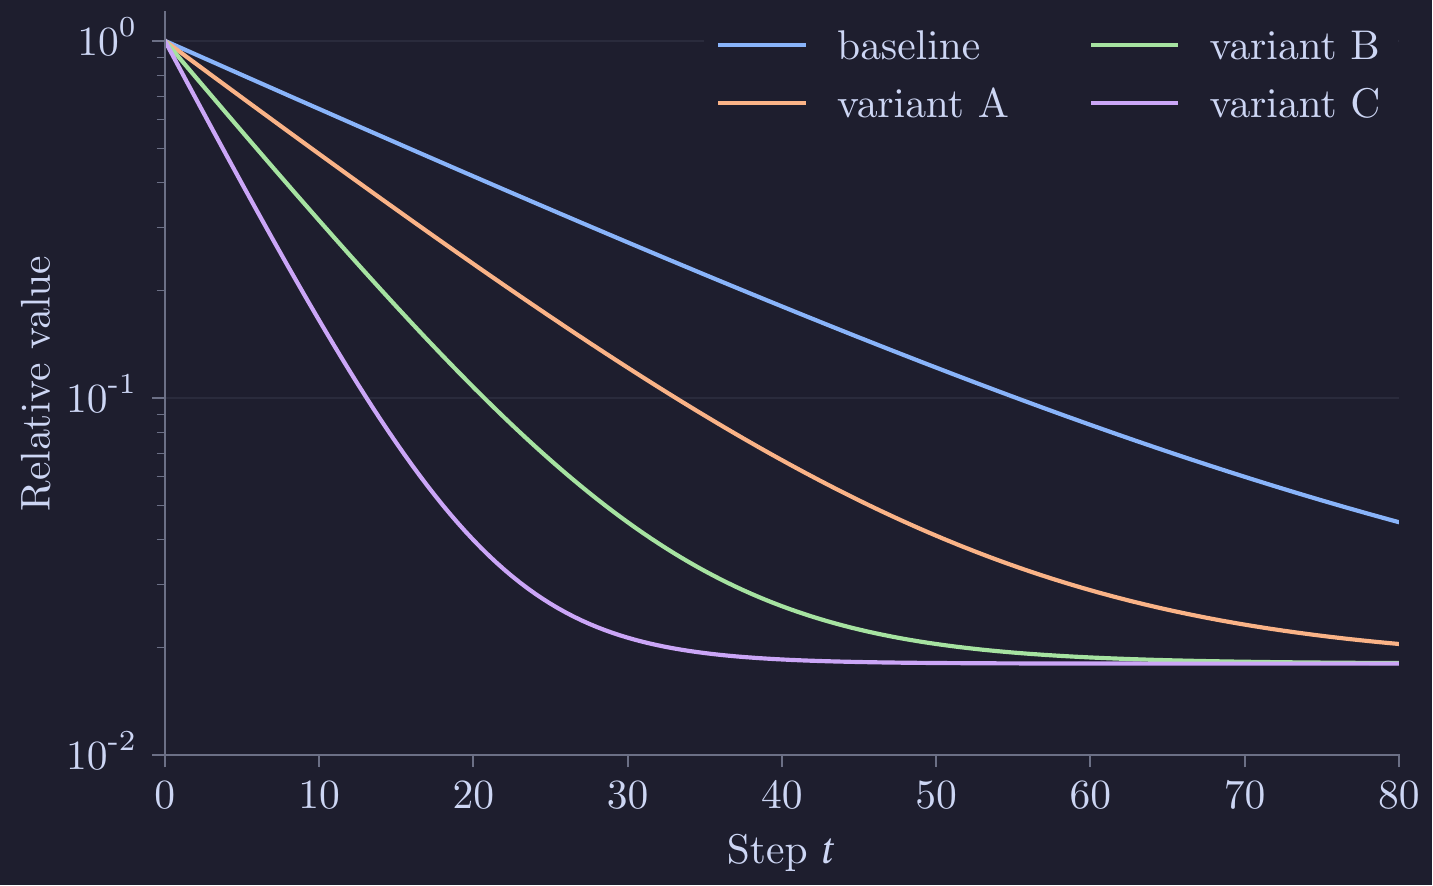
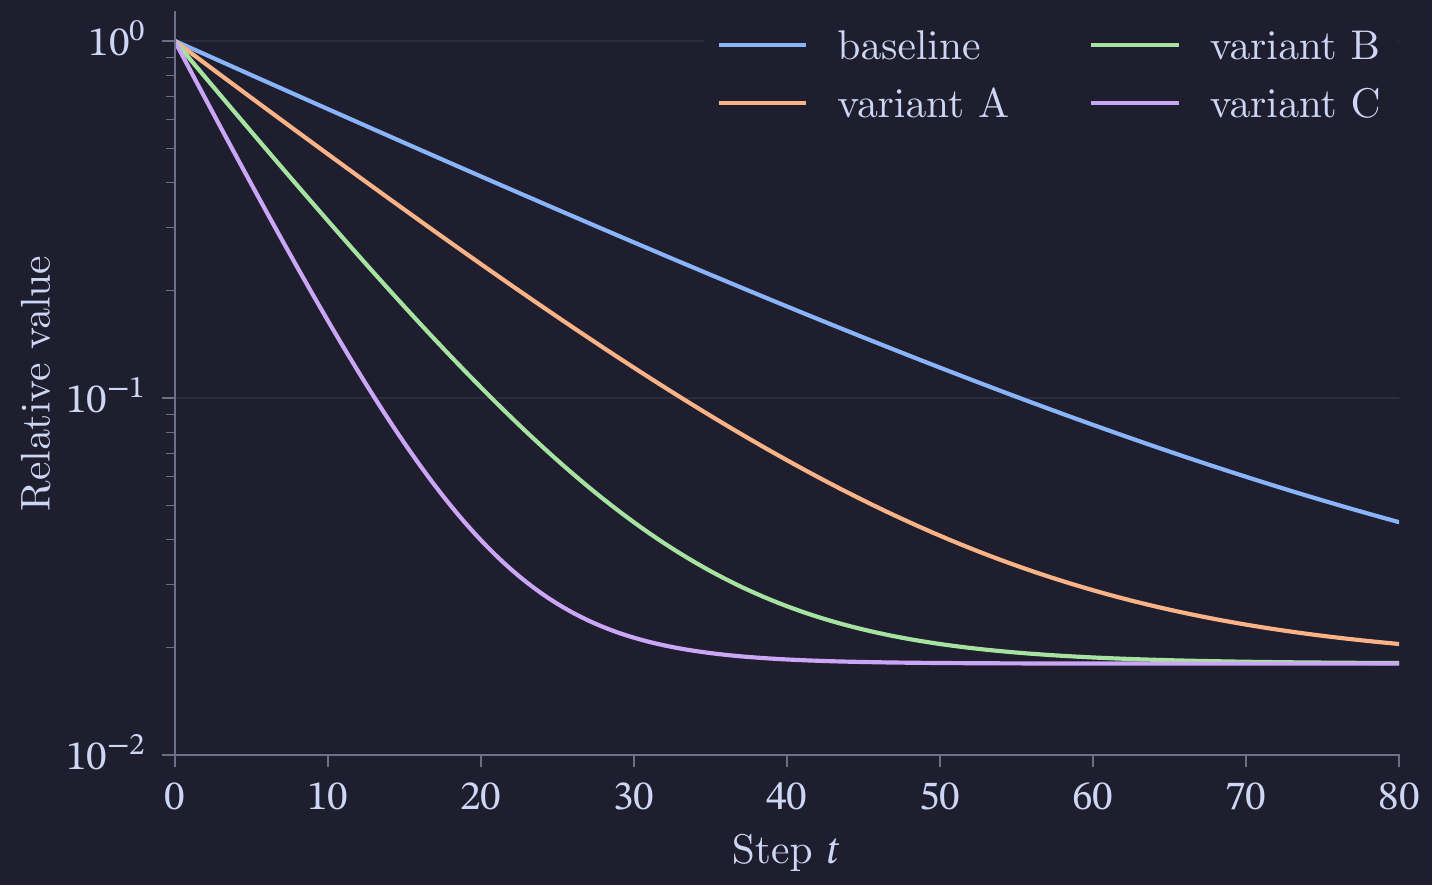
Set tick numbers in math mode

diff --git a/tests/test_pictures.py b/tests/test_pictures.py
@@ -17,7 +17,7 @@ from documents import (
     register_plots,
     size_of,
 )
-from pdfminer.layout import LTPage
+from pdfminer.layout import LTChar, LTPage
 
 from figmint import Document
 
@@ -31,6 +31,9 @@ BOX_TOLERANCE = 0.01
 SIZE_TOLERANCE = 0.05
 # A caret where a superscript belongs, as a character or as an accent.
 CARETS = {"^", "\N{MODIFIER LETTER CIRCUMFLEX ACCENT}"}
+MINUS_SIGNS = {"-", "\N{MINUS SIGN}"}
+# A digit that follows a minus sign starts within this many big points of it.
+GLYPH_GAP = 2.0
 
 
 def draw(name: str, engine: str, directory: Path) -> tuple[Document, Path]:
@@ -60,6 +63,26 @@ def fonts(page: LTPage, word: str) -> set[str]:
     return {font_of(char) for char in caption_chars(page, word)}
 
 
+def digit_fonts(glyphs: list[LTChar]) -> set[str]:
+    return {font_of(char) for char in glyphs if char.get_text().isdigit()}
+
+
+def minus_fonts(glyphs: list[LTChar]) -> set[str]:
+    return {font_of(char) for char in glyphs if char.get_text() in MINUS_SIGNS}
+
+
+def math_digit_fonts(caption: list[LTChar]) -> set[str]:
+    """Return the fonts of the caption's digits that follow a minus sign: its $-1$."""
+    minuses = [char for char in caption if char.get_text() in MINUS_SIGNS]
+
+    return {
+        font_of(char)
+        for char in caption
+        if char.get_text().isdigit()
+        and any(0.0 <= char.x0 - minus.x1 <= GLYPH_GAP for minus in minuses)
+    }
+
+
 def assert_sizes_in(found: set[float], allowed: set[float]) -> None:
     for size in found:
         assert any(abs(size - other) <= SIZE_TOLERANCE for other in allowed), (
@@ -84,6 +107,9 @@ def test_figures_have_the_fonts_and_the_size_of_their_captions(
         caption_fonts, caption_sizes = fonts(page, "Caption"), sizes(page, "Caption")
         assert caption_fonts
         assert caption_sizes
+        caption = caption_chars(page, "Caption")
+        assert math_digit_fonts(caption)
+        assert minus_fonts(caption)
 
         for figure in included:
             matching = {
@@ -103,6 +129,21 @@ def test_figures_have_the_fonts_and_the_size_of_their_captions(
             assert {font_of(char) for char in glyphs} <= caption_fonts
             found = {round(size_of(char), 2) for char in glyphs}
             assert_sizes_in(found, caption_sizes)
+            # Tick numbers are formulas: their digits and minus signs come from
+            # the math font, like the caption's $-1$, never from the text font.
+            assert digit_fonts(glyphs)
+            assert digit_fonts(glyphs) <= math_digit_fonts(caption), (
+                digit_fonts(glyphs),
+                math_digit_fonts(caption),
+            )
+            assert minus_fonts(glyphs) <= minus_fonts(caption), (
+                minus_fonts(glyphs),
+                minus_fonts(caption),
+            )
+
+            if matching == {"sublog"}:
+                # Minor ticks are labeled, as matplotlib's 2 x 10^0.
+                assert "\N{MULTIPLICATION SIGN}" in {char.get_text() for char in glyphs}
 
             if matching == {"log"}:
                 # The exponents of the tick labels are digits at script size.

diff --git a/src/figmint/_document.py b/src/figmint/_document.py
@@ -372,35 +372,21 @@ class Document:
 
 
 def _figmint_lines(line: Line) -> list[str]:
-    r"""Return the lines figmint adds after the document's.
+    """Return the lines figmint adds after the document's.
 
-    The first lines put the digits of tick labels that matplotlib sets in math
-    mode, those of a log axis, into the text font: ``\mathdefault{10^{2}}``
-    becomes ``\text{10}^{\text{2}}``, and the minus sign of an exponent stays
-    in the math font through the ``\ensuremath{-}`` the pgf backend writes.
-    The backend makes ``^`` active inside its text, so the macros are defined
-    with that character active. A math alphabet would do the same but needs a
-    math family, of which stix2 leaves none under pdfLaTeX. The last line pins
-    the script sizes: matplotlib's own preamble loads scrextend with the size
-    as ``9.000000pt``, after which LuaLaTeX with unicode-math sets the scripts
-    of a 9pt figure at 6.3pt and 4.5pt.
+    The first pins the script sizes: matplotlib's own preamble loads scrextend
+    with the size as ``9.000000pt``, after which LuaLaTeX with unicode-math
+    sets the scripts of a 9pt figure at 6.3pt and 4.5pt. The second removes
+    the page number: matplotlib typesets the figure as a page of an article,
+    whose number would stand below the figure's box, clipped but in the file.
+    Tick labels are formulas, as matplotlib writes them, and need nothing else.
     """
     return [
-        r"\usepackage{amstext}",
-        r"\makeatletter",
-        r"\begingroup\catcode`\^=\active",
-        r"\gdef\figmint@power#1^#2\figmint@stop{\text{#1}^{\text{#2}}}",
-        (
-            r"\gdef\figmint@mathdefault#1{\in@{^}{#1}"
-            r"\ifin@\figmint@power#1\figmint@stop\else\text{#1}\fi}"
-        ),
-        r"\endgroup",
-        r"\renewcommand{\mathdefault}[1]{\figmint@mathdefault{#1}}",
-        r"\makeatother",
         (
             rf"\DeclareMathSizes{{{line.size:f}}}{{{line.size:g}}}"
             rf"{{{line.script}}}{{{line.scriptscript}}}"
         ),
+        r"\pagestyle{empty}",
     ]
 
 

diff --git a/src/figmint/_ticks.py b/src/figmint/_ticks.py
@@ -1,4 +1,4 @@
-"""Tick numbers by the look: no trailing zeros, and a real minus sign."""
+"""Tick numbers by the look: in math mode, with no trailing zeros."""
 
 import numpy as np
 from matplotlib.figure import Figure
@@ -10,11 +10,7 @@ DECIMALS = 10
 
 
 def format_number(value: float) -> str:
-    r"""Return a number with no trailing zeros and U+2212 as its minus sign.
-
-    The digits and the decimal point are plain text, so a document sets them in
-    its text font; the pgf backend sets U+2212 as ``\ensuremath{-}``, in the
-    math font.
+    """Return a number with no trailing zeros and U+2212 as its minus sign.
 
     Returns:
         The number as text.
@@ -29,17 +25,23 @@ def format_number(value: float) -> str:
 
 
 class NumberFormatter(Formatter):
-    """Formats ticks through ``format_number``."""
+    r"""Formats ticks through ``format_number``, in math mode.
+
+    A label is ``$\mathdefault{...}$``, as matplotlib's own formatters write
+    it. A document typesets it as a formula, so the digits and the minus sign
+    come from its math font, as pgfplots and siunitx set numbers. matplotlib's
+    own renderer sets ``\mathdefault`` in the label's font.
+    """
 
     def __call__(self, x: float, pos: int | None = None) -> str:  # noqa: ARG002
-        return format_number(x)
+        return rf"$\mathdefault{{{format_number(x)}}}$"
 
 
 def format_ticks(figure: Figure) -> None:
-    r"""Give every linear axis with matplotlib's formatter the formatter of the look.
+    """Give every linear axis with matplotlib's formatter the formatter of the look.
 
-    A log axis keeps matplotlib's formatter, whose exponents the document sets
-    through ``\mathdefault``, and an axis with a formatter of its own keeps it.
+    A log axis keeps matplotlib's formatter, which writes its labels in math
+    mode already, and an axis with a formatter of its own keeps it.
     """
     for axes in figure.axes:
         for axis in (axes.xaxis, axes.yaxis):

diff --git a/tests/documents.py b/tests/documents.py
@@ -217,13 +217,22 @@ def _log(_: Figure, axes: Axes) -> None:
     legend(axes, loc="best")
 
 
+def _sublog(_: Figure, axes: Axes) -> None:
+    # Less than a decade, so matplotlib labels the minor ticks as well.
+    axes.plot(STEPS, 2.0 + 6.0 * np.exp(-0.05 * STEPS), label="baseline")
+    axes.set_yscale("log")
+    axes.set_ylim(2.0, 8.0)
+    axes.set_xlabel(r"Step $t$")
+    legend(axes, loc="best")
+
+
 def _bars(_: Figure, axes: Axes) -> None:
     for index in range(3):
         bar(
             axes,
             [1, 2, 3],
             [0.5 + 0.1 * index, 0.7, 0.4],
-            label=f"series {index}",
+            label=f"series {('one', 'two', 'three')[index]}",
             group=(index, 3),
         )
 
@@ -281,9 +290,12 @@ def _grid(_: Figure, axes: np.ndarray) -> None:
         panel.set_xlabel(r"Step $t$")
 
 
+# No text label of these figures holds a digit, so every digit of a figure is a
+# tick number or part of a formula, which the picture test relies on.
 PLOTS = {
     "lines": _lines,
     "log": _log,
+    "sublog": _sublog,
     "bars": _bars,
     "hbars": _hbars,
     "scatter": _scatter,

diff --git a/tests/test_ticks.py b/tests/test_ticks.py
@@ -47,7 +47,7 @@ def test_format_ticks_touches_only_linear_axes_with_the_default_formatter() -> N
     assert custom.xaxis.get_major_formatter() is own
 
 
-def test_formatted_ticks_have_no_trailing_zeros() -> None:
+def test_formatted_ticks_are_formulas_without_trailing_zeros() -> None:
     figure = Figure()
     canvas = FigureCanvasAgg(figure)
     axes = figure.subplots()
@@ -56,8 +56,8 @@ def test_formatted_ticks_have_no_trailing_zeros() -> None:
     canvas.draw()
 
     assert [label.get_text() for label in axes.get_xticklabels()] == [
-        MINUS + "1",
-        "0",
-        "0.5",
-        "1",
+        r"$\mathdefault{" + MINUS + "1}$",
+        r"$\mathdefault{0}$",
+        r"$\mathdefault{0.5}$",
+        r"$\mathdefault{1}$",
     ]

diff --git a/tests/documents/icml.tex b/tests/documents/icml.tex
@@ -81,4 +81,11 @@ Body text with math $f(x) = x_{i}^{2}$ and $-1$.
 \end{figure*}
 \clearpage
 
+\begin{figure}[htbp]
+  \centering
+  \figmintgraphic{sublog}
+  \caption{Caption $x_{i}^{\text{a}}$ and $-1$.}
+\end{figure}
+\clearpage
+
 \end{document}

diff --git a/tests/documents/iclr.tex b/tests/documents/iclr.tex
@@ -83,4 +83,11 @@ Body text with math $f(x) = x_{i}^{2}$ and $-1$.
 \end{figure}
 \clearpage
 
+\begin{figure}[htbp]
+  \centering
+  \figmintgraphic{sublog}
+  \caption{Caption $x_{i}^{\text{a}}$ and $-1$.}
+\end{figure}
+\clearpage
+
 \end{document}

diff --git a/tests/documents/neurips.tex b/tests/documents/neurips.tex
@@ -83,4 +83,11 @@ Body text with math $f(x) = x_{i}^{2}$ and $-1$.
 \end{figure}
 \clearpage
 
+\begin{figure}[htbp]
+  \centering
+  \figmintgraphic{sublog}
+  \caption{Caption $x_{i}^{\text{a}}$ and $-1$.}
+\end{figure}
+\clearpage
+
 \end{document}

diff --git a/tests/documents/xelatex.tex b/tests/documents/xelatex.tex
@@ -77,4 +77,11 @@ Body text with math $f(x) = x_{i}^{2}$ and $-1$.
 \end{figure}
 \clearpage
 
+\begin{figure}[htbp]
+  \centering
+  \figmintgraphic{sublog}
+  \caption{Caption $x_{i}^{\text{a}}$ and $-1$.}
+\end{figure}
+\clearpage
+
 \end{document}

diff --git a/docs/legend.md b/docs/legend.md
@@ -1,12 +1,12 @@
 # Legend placement
 
-Both backends place a legend by the same rule: the legend sits flush at one of nine anchors of the axes, with the column count that covers the least plotted ink. `figmint.sty` applies the rule at `\end{axis}`, and `legend(axis, ...)` applies it in matplotlib. The two implementations run the same fixtures in `tests/fixtures/legend`.
+`legend(axes, ...)` places a legend by one rule: the legend sits flush at one of nine anchors of the axes, with the column count that covers the least plotted ink. The fixtures in `tests/fixtures/legend` pin the rule.
 
 ## Candidates
 
-The anchors are the four corners of the axes, the middles of its four edges, and its center. A legend at an anchor sits flush with the axes frame: at a corner it touches both edges, and at the middle of an edge it touches that edge and is centered along it. In matplotlib, a legend with a visible frame stays inside by half its frame line width.
+The anchors are the four corners of the axes, the middles of its four edges, and its center. A legend at an anchor sits flush with the axes frame: at a corner it touches both edges, and at the middle of an edge it touches that edge and is centered along it. A legend with a visible frame stays inside by half its frame line width.
 
-With $n$ legend entries, a candidate is an anchor and a column count $C \in \{1, \ldots, n\}$. Under `loc="best"` and `figmint legend best`, every anchor is a candidate; under a fixed location, only that anchor is. The size of each candidate is the size of the real legend at $C$ columns, typeset or rendered by the backend. A candidate whose legend is wider or taller than the axes is dropped, and when no candidate remains, placement fails with an error.
+With $n$ legend entries, a candidate is an anchor and a column count $C \in \{1, \ldots, n\}$. Under `loc="best"`, every anchor is a candidate; under a fixed location, only that anchor is. The size of each candidate is the size of the real legend at $C$ columns, as matplotlib renders it. A candidate whose legend is wider or taller than the axes is dropped, and when no candidate remains, placement fails with an error.
 
 ## Ink
 
@@ -16,7 +16,7 @@ The axes are divided into square cells of side $c = 2\,\mathrm{pt}$, indexed by 
 - A filled path occupies its boundary, as above, and every cell whose center lies inside the path under the even-odd rule.
 - A text annotation, an image, and a shaded surface occupy every cell that their bounding box overlaps.
 
-Ink is what the plots and the annotations inside the axes draw. In PGFPlots, that is everything drawn after the axis background, grid, and the axis lines below the plots, including the markers that PGFPlots draws after the axis. In matplotlib, it is every child of the axes except the background, spines, axes, titles, and the legend.
+Ink is what the plots and the annotations inside the axes draw: every child of the axes except the background, the spines, the axis objects, the titles, and the legend.
 
 ## Score
 
@@ -34,4 +34,4 @@ Let a candidate legend of width $w$ and height $h$ overlap columns $i_0, \ldots,
 
 ## Cost
 
-In PGFPlots, ink is collected only for an axis whose legend figmint places, while PGFPlots draws it, at a cost linear in what is drawn. Other axes are not touched, so they keep the Lua backend of PGFPlots. Each candidate then costs a constant number of lookups in a summed-area table of the grid and one pass over its rows for the clearance. In matplotlib, `legend` draws the figure once, whatever the number of legend entries.
+`legend` draws the figure once, whatever the number of legend entries, to collect the ink. Each candidate then costs a constant number of lookups in a summed-area table of the grid and one pass over its rows for the clearance.

diff --git a/docs/style.md b/docs/style.md
@@ -7,7 +7,7 @@ figmint draws every figure by these rules, through the settings of `style` and `
 - Boxes 0.55 of the spacing wide with caps 0.44 wide, filled with 12% of their color over the background and outlined in it, the median as wide as a plot line, the whiskers as an axis line, and no fliers.
 - A colorbar 4 bp wide, 4 bp from the axes and as tall, with no frame.
 - Bands with opacity 0.18 and no edge.
-- Numbers with the digits and the decimal point in the text font, the minus sign from the math font, and no trailing zeros.
+- Numbers in math mode, as pgfplots and siunitx set numbers: the digits, the decimal point, and the minus sign come from the document's math font. No trailing zeros.
 - Automatic limits as the range of the data enlarged by 5% on each side.
 - The canvas exactly the requested size, with the content 3 bp inside it.
 - Axis lines 0.5 bp wide, plot lines 1 bp, markers 3 bp, major ticks 3 bp long and outside the axes, only the left and bottom spines, and a legend without a frame line.

diff --git a/README.md b/README.md
@@ -96,7 +96,8 @@ that no document includes, with matplotlib setting the text. Save it with
 `hbar`, `area`, `interval`, `scatter`, `heatmap`, `colorbar`, and `boxplot`
 draw what settings cannot express, `legend` places the legend by
 [`docs/legend.md`](docs/legend.md), and every figure saved through figmint
-prints its tick numbers without trailing zeros and with a real minus sign.
+prints its tick numbers as formulas, in the document's math font, without
+trailing zeros.
 
 ## Public interface
 
